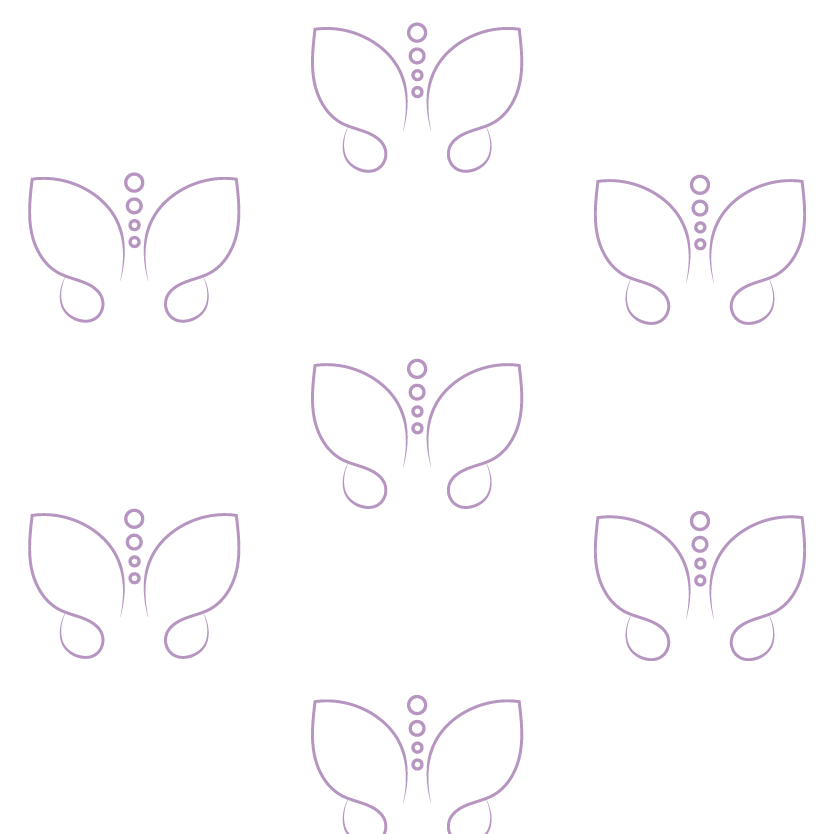
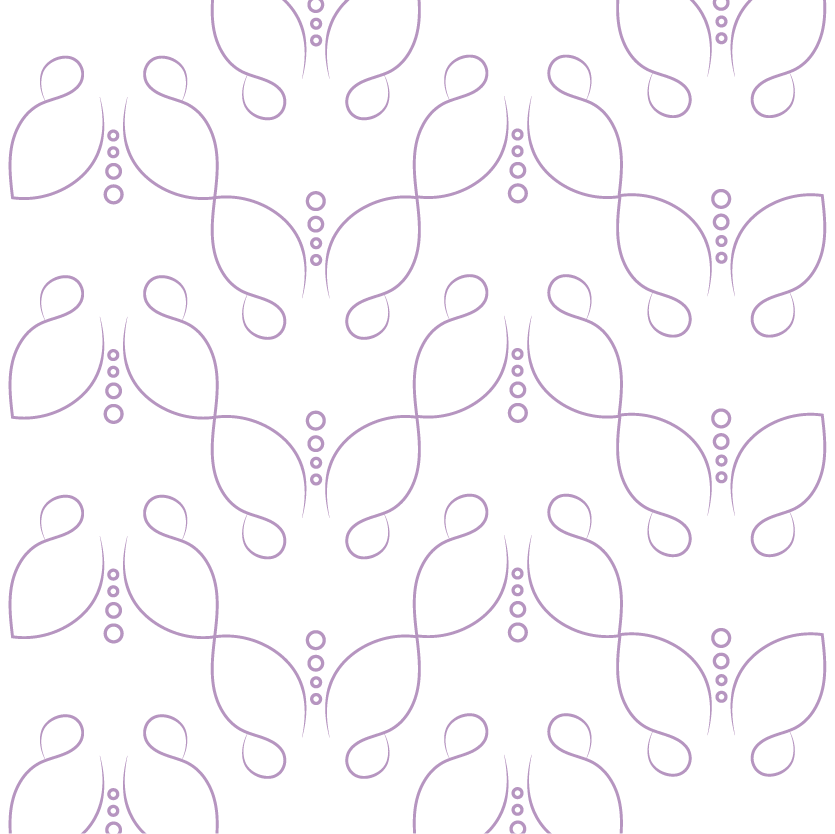
feat: added scroll animation, font preloading and lazy loading of images

diff --git a/index.html b/index.html
@@ -7,6 +7,8 @@
     <title>Erica Damasceno - Fisioterapeuta Pélvica e Sexóloga Cristã</title>
     <script src="https://cdn.tailwindcss.com"></script>
     <link rel="stylesheet" href="https://cdnjs.cloudflare.com/ajax/libs/font-awesome/6.4.0/css/all.min.css">
+    <link rel="preconnect" href="https://fonts.googleapis.com">
+    <link rel="preconnect" href="https://fonts.gstatic.com" crossorigin>
     <link
         href="https://fonts.googleapis.com/css2?family=Playfair+Display:wght@400;500;600;700&family=Montserrat:wght@300;400;500;600&display=swap"
         rel="stylesheet">
@@ -150,7 +152,7 @@
 
         .bg-white-pattern {
             background-color: #fff;
-            background-image: url('assets/padrao_lilas_2.png');
+            background-image: url('assets/padrao_lilas.png');
             background-repeat: repeat;
             background-size: 500px auto;
             /* Adiciona sobreposição branca para suavizar o padrão */
@@ -210,6 +212,19 @@
                 margin-right: auto !important;
             }
         }
+
+        /* Animation for sections */
+        .animate-section {
+            opacity: 0;
+            transform: translateY(32px);
+            transition: opacity 0.8s cubic-bezier(0.4, 0, 0.2, 1), transform 0.8s cubic-bezier(0.4, 0, 0.2, 1);
+            will-change: opacity, transform;
+        }
+
+        .animate-section.section-visible {
+            opacity: 1 !important;
+            transform: translateY(0) !important;
+        }
     </style>
 </head>
 
@@ -219,7 +234,7 @@
         <div class="container mx-auto px-6 py-4">
             <div class="flex justify-between items-center">
                 <div>
-                    <img src="assets/marca.png" alt="Logo Erica Damasceno" class="h-12 w-auto">
+                    <img src="assets/marca.png" alt="Logo Erica Damasceno" loading="lazy" class="h-12 w-auto">
                 </div>
                 <div class="hidden md:flex space-x-8">
                     <a href="#home" class="nav-link text-gray-700 hover:text-primary-medium transition">Início</a>
@@ -242,7 +257,7 @@
             <!-- Menu lateral (não ocupa toda a tela) -->
             <div id="custom-mobile-menu-content"
                 class="relative h-full flex flex-col items-start pl-8 pt-8 w-4/5 max-w-xs bg-white shadow-xl transform -translate-x-full transition-transform duration-300">
-                <img src="assets/marca.png" alt="Logo Erica Damasceno" id="custom-mobile-menu-logo"
+                <img src="assets/marca.png" alt="Logo Erica Damasceno" loading="lazy" id="custom-mobile-menu-logo"
                     class="h-12 w-auto mb-14 opacity-0 translate-x-[-40px] transition-all duration-300">
                 <nav class="flex flex-col gap-0 w-full">
                     <a href="#home"
@@ -290,11 +305,11 @@
     </section>
 
     <!-- About Section -->
-    <section id="about" class="py-20 bg-white-pattern">
+    <section id="about" class="py-20 bg-white-pattern animate-section opacity-0 translate-y-8">
         <div class="container mx-auto px-6">
             <div class="flex flex-col lg:flex-row items-center">
                 <div class="lg:w-1/2 mb-12 lg:mb-0 lg:pr-12 flex items-center justify-center">
-                    <img src="assets/erica_2.jpeg" alt="Erica Damasceno"
+                    <img src="assets/erica.webp" alt="Erica Damasceno" loading="lazy"
                         class="rounded-lg shadow-xl w-full h-[400px] md:h-[500px] lg:h-[520px] object-cover">
                 </div>
                 <div class="lg:w-1/2">
@@ -325,7 +340,7 @@
     </section>
 
     <!-- Services Section -->
-    <section id="services" class="py-20 bg-primary-dark">
+    <section id="services" class="py-20 bg-primary-dark animate-section opacity-0 translate-y-8">
         <div class="container mx-auto px-6">
             <h2 class="text-3xl md:text-4xl font-bold text-center text-support-white mb-16">Como Posso Te Ajudar</h2>
             <div class="grid grid-cols-1 md:grid-cols-3 gap-8">
@@ -343,7 +358,7 @@
                         autoestima.
                     </p>
                     <a href="cursos/"
-                        class="mt-auto inline-block px-6 py-3 rounded-full bg-white text-primary-dark font-semibold shadow transition duration-200 hover:bg-primary-dark hover:text-white hover:shadow-lg focus:bg-primary-dark focus:text-white focus:shadow-lg text-center">
+                        class="mt-auto inline-block px-6 py-3 rounded-full bg-white text-primary-dark font-semibold shadow transition duration-300 transform hover:bg-primary-dark hover:text-white hover:scale-105 focus:bg-primary-dark focus:text-white focus:scale-105 text-center">
                         Saiba Mais
                     </a>
                 </div>
@@ -360,7 +375,7 @@
                         e a qualidade de vida.
                     </p>
                     <a href="fisioterapia/"
-                        class="mt-auto inline-block px-6 py-3 rounded-full bg-white text-primary-dark font-semibold shadow transition duration-200 hover:bg-primary-dark hover:text-white hover:shadow-lg focus:bg-primary-dark focus:text-white focus:shadow-lg text-center">
+                        class="mt-auto inline-block px-6 py-3 rounded-full bg-white text-primary-dark font-semibold shadow transition duration-300 transform hover:bg-primary-dark hover:text-white hover:scale-105 focus:bg-primary-dark focus:text-white focus:scale-105 text-center">
                         Saiba Mais
                     </a>
                 </div>
@@ -377,7 +392,7 @@
                         base nos princípios bíblicos.
                     </p>
                     <a href="sexologa/"
-                        class="mt-auto inline-block px-6 py-3 rounded-full bg-white text-primary-dark font-semibold shadow transition duration-200 hover:bg-primary-dark hover:text-white hover:shadow-lg focus:bg-primary-dark focus:text-white focus:shadow-lg text-center">
+                        class="mt-auto inline-block px-6 py-3 rounded-full bg-white text-primary-dark font-semibold shadow transition duration-300 transform hover:bg-primary-dark hover:text-white hover:scale-105 focus:bg-primary-dark focus:text-white focus:scale-105 text-center">
                         Saiba Mais
                     </a>
                 </div>
@@ -386,7 +401,7 @@
     </section>
 
     <!-- Testimonials Section -->
-    <section id="testimonials" class="py-20 bg-white-pattern">
+    <section id="testimonials" class="py-20 bg-white-pattern animate-section opacity-0 translate-y-8">
         <div class="container mx-auto px-6">
             <h2 class="text-3xl md:text-4xl font-bold text-center text-primary-dark mb-16">Transformando Vidas, com
                 Leveza e Fé</h2>
@@ -428,16 +443,18 @@
                 </div>
             </div>
             <div class="mt-10 flex justify-center md:justify-end">
-                <a href="depoimentos/"
-                    class="inline-block px-8 py-3 rounded-full bg-primary-dark text-white font-semibold transition duration-300 transform hover:bg-primary-medium hover:text-white hover:scale-105 focus:bg-primary-medium focus:text-white focus:scale-105 text-center shadow">
-                    Ver mais depoimentos
-                </a>
+                <div class="w-full md:w-1/3 flex justify-center md:justify-end">
+                    <a href="depoimentos/"
+                        class="inline-block px-8 py-3 rounded-full bg-primary-dark text-white font-semibold transition duration-300 transform hover:bg-primary-medium hover:text-white hover:scale-105 focus:bg-primary-medium focus:text-white focus:scale-105 text-center shadow">
+                        Ver mais depoimentos
+                    </a>
+                </div>
             </div>
         </div>
     </section>
 
     <!-- FAQ Section -->
-    <section id="faq" class="py-20 bg-primary-dark">
+    <section id="faq" class="py-20 bg-primary-dark animate-section opacity-0 translate-y-8">
         <div class="container mx-auto px-6 max-w-4xl">
             <h2 class="text-3xl md:text-4xl font-bold text-center text-support-white mb-16">Dúvidas Comuns</h2>
 
@@ -529,7 +546,7 @@
     </section>
 
     <!-- Contact Section -->
-    <section id="contact" class="py-20 bg-white-pattern">
+    <section id="contact" class="py-20 bg-white-pattern animate-section opacity-0 translate-y-8">
         <div class="container mx-auto px-6">
             <h2 class="text-3xl md:text-4xl font-bold text-center text-primary-dark mb-16">Vamos Conversar?</h2>
             <div class="grid grid-cols-1 md:grid-cols-2 gap-12 items-start">
@@ -642,7 +659,7 @@
             <div class="flex flex-col md:flex-row justify-between items-center">
                 <!-- Logo e direitos reservados -->
                 <div class="mb-6 md:mb-0 flex flex-col items-center md:items-start w-full md:w-auto">
-                    <img src="assets/marca_cinza.png" alt="Logo Erica Damasceno"
+                    <img src="assets/marca_cinza.png" alt="Logo Erica Damasceno" loading="lazy"
                         class="h-10 w-auto mb-2 mx-auto md:mx-0">
                     <div
                         class="text-primary-light text-xs md:text-base text-center md:text-left leading-tight mb-2 md:mb-0">
@@ -838,6 +855,51 @@
             if (overlay.style.display === 'none') {
                 document.body.style.overflow = '';
             }
+        });
+
+        // Animation on scroll and navigation (IntersectionObserver version)
+        function animateSectionsWithObserver() {
+            const sections = document.querySelectorAll('.animate-section');
+            const observer = new IntersectionObserver((entries, obs) => {
+                entries.forEach(entry => {
+                    if (entry.isIntersecting) {
+                        entry.target.classList.add('section-visible');
+                        obs.unobserve(entry.target); // anima só uma vez
+                    }
+                });
+            }, { threshold: 0.15 });
+
+            sections.forEach(section => observer.observe(section));
+        }
+
+        // Animate on load
+        window.addEventListener('DOMContentLoaded', animateSectionsWithObserver);
+
+        // Animate on navigation click (smooth scroll)
+        document.querySelectorAll('a[href^="#"]').forEach(anchor => {
+            anchor.addEventListener('click', function (e) {
+                const targetId = this.getAttribute('href');
+                const targetElement = document.querySelector(targetId);
+
+                if (targetElement) {
+                    e.preventDefault();
+                    window.scrollTo({
+                        top: targetElement.offsetTop - 80,
+                        behavior: 'smooth'
+                    });
+
+                    // Animate section immediately if not visible yet
+                    setTimeout(() => {
+                        targetElement.classList.add('section-visible');
+                    }, 200);
+
+                    // Close mobile menu if open
+                    const mobileMenu = document.getElementById('mobile-menu');
+                    if (mobileMenu && !mobileMenu.classList.contains('hidden')) {
+                        mobileMenu.classList.add('hidden');
+                    }
+                }
+            });
         });
     </script>
 </body>

diff --git a/fisioterapia/index.html b/fisioterapia/index.html
@@ -7,6 +7,8 @@
     <title>Erica Damasceno - Fisioterapia Pélvica</title>
     <script src="https://cdn.tailwindcss.com"></script>
     <link rel="stylesheet" href="https://cdnjs.cloudflare.com/ajax/libs/font-awesome/6.4.0/css/all.min.css">
+    <link rel="preconnect" href="https://fonts.googleapis.com">
+    <link rel="preconnect" href="https://fonts.gstatic.com" crossorigin>
     <link
         href="https://fonts.googleapis.com/css2?family=Playfair+Display:wght@400;500;600;700&family=Montserrat:wght@300;400;500;600&display=swap"
         rel="stylesheet">
@@ -199,18 +201,20 @@
         <div class="container mx-auto px-6 py-4">
             <div class="flex justify-between items-center">
                 <div>
-                    <img src="../assets/marca.png" alt="Logo Erica Damasceno" class="h-12 w-auto">
+                    <img src="../assets/marca.png" alt="Logo Erica Damasceno" loading="lazy" class="h-12 w-auto">
                 </div>
                 <div class="hidden md:flex space-x-8">
                     <a href="../index.html#home"
                         class="nav-link text-gray-700 hover:text-primary-medium transition">Início</a>
-                    <a href="../index.html#about" class="nav-link text-gray-700 hover:text-primary-medium transition">Sobre
+                    <a href="../index.html#about"
+                        class="nav-link text-gray-700 hover:text-primary-medium transition">Sobre
                         Mim</a>
                     <a href="../index.html#services"
                         class="nav-link text-gray-700 hover:text-primary-medium transition">Serviços</a>
                     <a href="../index.html#testimonials"
                         class="nav-link text-gray-700 hover:text-primary-medium transition">Depoimentos</a>
-                    <a href="../index.html#faq" class="nav-link text-gray-700 hover:text-primary-medium transition">FAQ</a>
+                    <a href="../index.html#faq"
+                        class="nav-link text-gray-700 hover:text-primary-medium transition">FAQ</a>
                     <a href="../index.html#contact"
                         class="nav-link text-gray-700 hover:text-primary-medium transition">Contato</a>
                 </div>
@@ -226,7 +230,7 @@
             <!-- Menu lateral (não ocupa toda a tela) -->
             <div id="custom-mobile-menu-content"
                 class="relative h-full flex flex-col items-start pl-8 pt-8 w-4/5 max-w-xs bg-white shadow-xl transform -translate-x-full transition-transform duration-300">
-                <img src="../assets/marca.png" alt="Logo Erica Damasceno" id="custom-mobile-menu-logo"
+                <img src="../assets/marca.png" alt="Logo Erica Damasceno" loading="lazy" id="custom-mobile-menu-logo"
                     class="h-12 w-auto mb-14 opacity-0 translate-x-[-40px] transition-all duration-300">
                 <nav class="flex flex-col gap-0 w-full">
                     <a href="../index.html#home"
@@ -263,7 +267,8 @@
             <div class="flex flex-col md:flex-row justify-between items-center">
                 <!-- Logo e direitos reservados -->
                 <div class="mb-6 md:mb-0 flex flex-col items-center md:items-start w-full md:w-auto">
-                    <img src="../assets/marca_cinza.png" alt="Logo Erica Damasceno" class="h-10 w-auto mb-2 mx-auto md:mx-0">
+                    <img src="../assets/marca_cinza.png" alt="Logo Erica Damasceno" loading="lazy"
+                        class="h-10 w-auto mb-2 mx-auto md:mx-0">
                     <div
                         class="text-primary-light text-xs md:text-base text-center md:text-left leading-tight mb-2 md:mb-0">
                         © 2025 Érica Damasceno. Todos os direitos reservados.

diff --git a/sexologa/index.html b/sexologa/index.html
@@ -7,6 +7,8 @@
     <title>Erica Damasceno - Sexóloga Cristã</title>
     <script src="https://cdn.tailwindcss.com"></script>
     <link rel="stylesheet" href="https://cdnjs.cloudflare.com/ajax/libs/font-awesome/6.4.0/css/all.min.css">
+    <link rel="preconnect" href="https://fonts.googleapis.com">
+    <link rel="preconnect" href="https://fonts.gstatic.com" crossorigin>
     <link
         href="https://fonts.googleapis.com/css2?family=Playfair+Display:wght@400;500;600;700&family=Montserrat:wght@300;400;500;600&display=swap"
         rel="stylesheet">
@@ -199,18 +201,20 @@
         <div class="container mx-auto px-6 py-4">
             <div class="flex justify-between items-center">
                 <div>
-                    <img src="../assets/marca.png" alt="Logo Erica Damasceno" class="h-12 w-auto">
+                    <img src="../assets/marca.png" alt="Logo Erica Damasceno" loading="lazy" class="h-12 w-auto">
                 </div>
                 <div class="hidden md:flex space-x-8">
                     <a href="../index.html#home"
                         class="nav-link text-gray-700 hover:text-primary-medium transition">Início</a>
-                    <a href="../index.html#about" class="nav-link text-gray-700 hover:text-primary-medium transition">Sobre
+                    <a href="../index.html#about"
+                        class="nav-link text-gray-700 hover:text-primary-medium transition">Sobre
                         Mim</a>
                     <a href="../index.html#services"
                         class="nav-link text-gray-700 hover:text-primary-medium transition">Serviços</a>
                     <a href="../index.html#testimonials"
                         class="nav-link text-gray-700 hover:text-primary-medium transition">Depoimentos</a>
-                    <a href="../index.html#faq" class="nav-link text-gray-700 hover:text-primary-medium transition">FAQ</a>
+                    <a href="../index.html#faq"
+                        class="nav-link text-gray-700 hover:text-primary-medium transition">FAQ</a>
                     <a href="../index.html#contact"
                         class="nav-link text-gray-700 hover:text-primary-medium transition">Contato</a>
                 </div>
@@ -226,7 +230,7 @@
             <!-- Menu lateral (não ocupa toda a tela) -->
             <div id="custom-mobile-menu-content"
                 class="relative h-full flex flex-col items-start pl-8 pt-8 w-4/5 max-w-xs bg-white shadow-xl transform -translate-x-full transition-transform duration-300">
-                <img src="../assets/marca.png" alt="Logo Erica Damasceno" id="custom-mobile-menu-logo"
+                <img src="../assets/marca.png" alt="Logo Erica Damasceno" loading="lazy" id="custom-mobile-menu-logo"
                     class="h-12 w-auto mb-14 opacity-0 translate-x-[-40px] transition-all duration-300">
                 <nav class="flex flex-col gap-0 w-full">
                     <a href="../index.html#home"
@@ -263,7 +267,8 @@
             <div class="flex flex-col md:flex-row justify-between items-center">
                 <!-- Logo e direitos reservados -->
                 <div class="mb-6 md:mb-0 flex flex-col items-center md:items-start w-full md:w-auto">
-                    <img src="../assets/marca_cinza.png" alt="Logo Erica Damasceno" class="h-10 w-auto mb-2 mx-auto md:mx-0">
+                    <img src="../assets/marca_cinza.png" alt="Logo Erica Damasceno" loading="lazy"
+                        class="h-10 w-auto mb-2 mx-auto md:mx-0">
                     <div
                         class="text-primary-light text-xs md:text-base text-center md:text-left leading-tight mb-2 md:mb-0">
                         © 2025 Érica Damasceno. Todos os direitos reservados.

diff --git a/cursos/index.html b/cursos/index.html
@@ -7,6 +7,8 @@
     <title>Erica Damasceno - Cursos Online</title>
     <script src="https://cdn.tailwindcss.com"></script>
     <link rel="stylesheet" href="https://cdnjs.cloudflare.com/ajax/libs/font-awesome/6.4.0/css/all.min.css">
+    <link rel="preconnect" href="https://fonts.googleapis.com">
+    <link rel="preconnect" href="https://fonts.gstatic.com" crossorigin>
     <link
         href="https://fonts.googleapis.com/css2?family=Playfair+Display:wght@400;500;600;700&family=Montserrat:wght@300;400;500;600&display=swap"
         rel="stylesheet">
@@ -199,7 +201,7 @@
         <div class="container mx-auto px-6 py-4">
             <div class="flex justify-between items-center">
                 <div>
-                    <img src="../assets/marca.png" alt="Logo Erica Damasceno" class="h-12 w-auto">
+                    <img src="../assets/marca.png" alt="Logo Erica Damasceno" loading="lazy" class="h-12 w-auto">
                 </div>
                 <div class="hidden md:flex space-x-8">
                     <a href="../index.html#home"
@@ -228,7 +230,7 @@
             <!-- Menu lateral (não ocupa toda a tela) -->
             <div id="custom-mobile-menu-content"
                 class="relative h-full flex flex-col items-start pl-8 pt-8 w-4/5 max-w-xs bg-white shadow-xl transform -translate-x-full transition-transform duration-300">
-                <img src="../assets/marca.png" alt="Logo Erica Damasceno" id="custom-mobile-menu-logo"
+                <img src="../assets/marca.png" alt="Logo Erica Damasceno" loading="lazy" id="custom-mobile-menu-logo"
                     class="h-12 w-auto mb-14 opacity-0 translate-x-[-40px] transition-all duration-300">
                 <nav class="flex flex-col gap-0 w-full">
                     <a href="../index.html#home"
@@ -265,7 +267,8 @@
             <div class="flex flex-col md:flex-row justify-between items-center">
                 <!-- Logo e direitos reservados -->
                 <div class="mb-6 md:mb-0 flex flex-col items-center md:items-start w-full md:w-auto">
-                    <img src="../assets/marca_cinza.png" alt="Logo Erica Damasceno" class="h-10 w-auto mb-2 mx-auto md:mx-0">
+                    <img src="../assets/marca_cinza.png" alt="Logo Erica Damasceno" loading="lazy"
+                        class="h-10 w-auto mb-2 mx-auto md:mx-0">
                     <div
                         class="text-primary-light text-xs md:text-base text-center md:text-left leading-tight mb-2 md:mb-0">
                         © 2025 Érica Damasceno. Todos os direitos reservados.

diff --git a/depoimentos/index.html b/depoimentos/index.html
@@ -7,6 +7,8 @@
     <title>Erica Damasceno - Depoimentos</title>
     <script src="https://cdn.tailwindcss.com"></script>
     <link rel="stylesheet" href="https://cdnjs.cloudflare.com/ajax/libs/font-awesome/6.4.0/css/all.min.css">
+    <link rel="preconnect" href="https://fonts.googleapis.com">
+    <link rel="preconnect" href="https://fonts.gstatic.com" crossorigin>
     <link
         href="https://fonts.googleapis.com/css2?family=Playfair+Display:wght@400;500;600;700&family=Montserrat:wght@300;400;500;600&display=swap"
         rel="stylesheet">
@@ -199,7 +201,7 @@
         <div class="container mx-auto px-6 py-4">
             <div class="flex justify-between items-center">
                 <div>
-                    <img src="../assets/marca.png" alt="Logo Erica Damasceno" class="h-12 w-auto">
+                    <img src="../assets/marca.png" alt="Logo Erica Damasceno" loading="lazy" class="h-12 w-auto">
                 </div>
                 <div class="hidden md:flex space-x-8">
                     <a href="../index.html#home"
@@ -228,7 +230,7 @@
             <!-- Menu lateral (não ocupa toda a tela) -->
             <div id="custom-mobile-menu-content"
                 class="relative h-full flex flex-col items-start pl-8 pt-8 w-4/5 max-w-xs bg-white shadow-xl transform -translate-x-full transition-transform duration-300">
-                <img src="../assets/marca.png" alt="Logo Erica Damasceno" id="custom-mobile-menu-logo"
+                <img src="../assets/marca.png" alt="Logo Erica Damasceno" loading="lazy" id="custom-mobile-menu-logo"
                     class="h-12 w-auto mb-14 opacity-0 translate-x-[-40px] transition-all duration-300">
                 <nav class="flex flex-col gap-0 w-full">
                     <a href="../index.html#home"
@@ -265,7 +267,7 @@
             <div class="flex flex-col md:flex-row justify-between items-center">
                 <!-- Logo e direitos reservados -->
                 <div class="mb-6 md:mb-0 flex flex-col items-center md:items-start w-full md:w-auto">
-                    <img src="../assets/marca_cinza.png" alt="Logo Erica Damasceno"
+                    <img src="../assets/marca_cinza.png" alt="Logo Erica Damasceno" loading="lazy"
                         class="h-10 w-auto mb-2 mx-auto md:mx-0">
                     <div
                         class="text-primary-light text-xs md:text-base text-center md:text-left leading-tight mb-2 md:mb-0">
